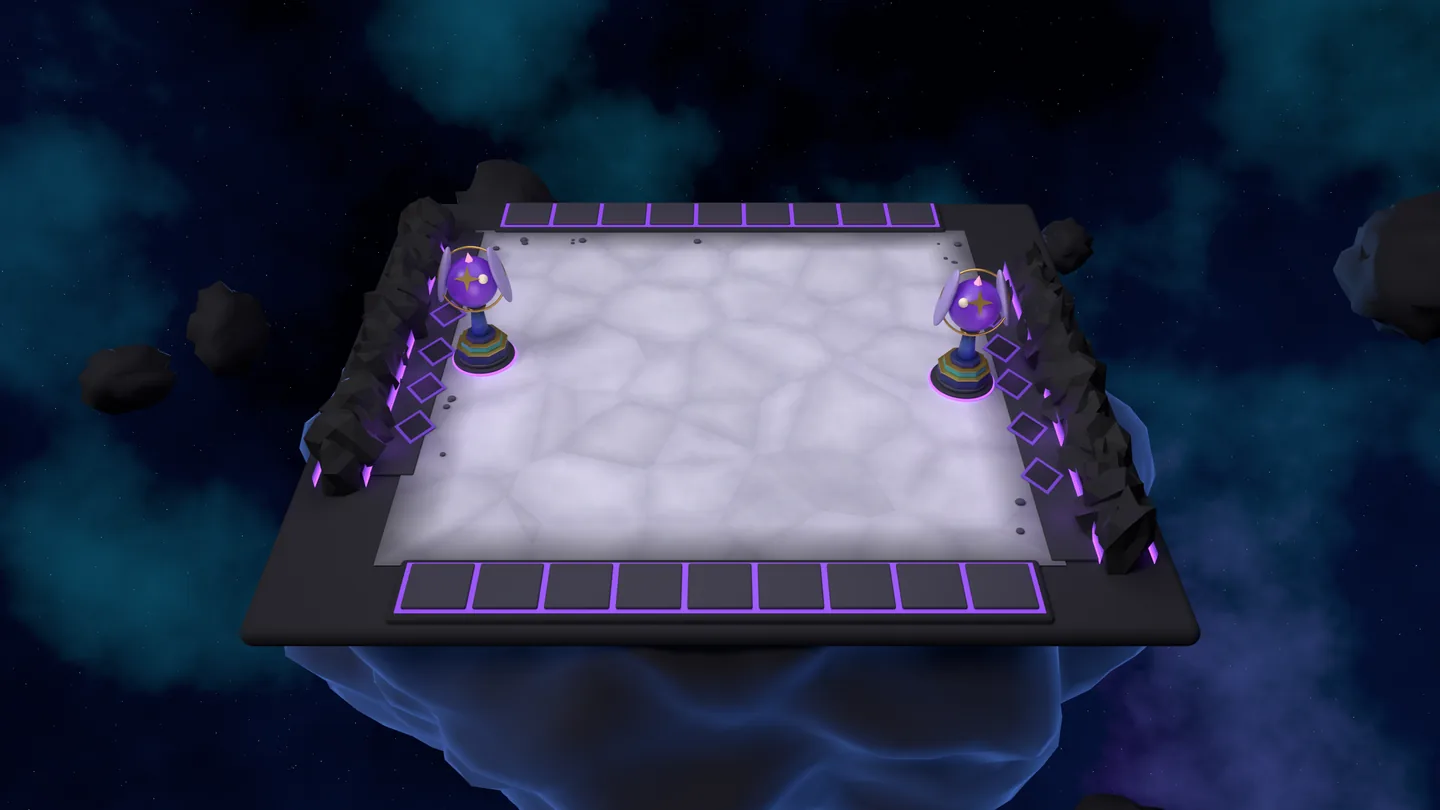
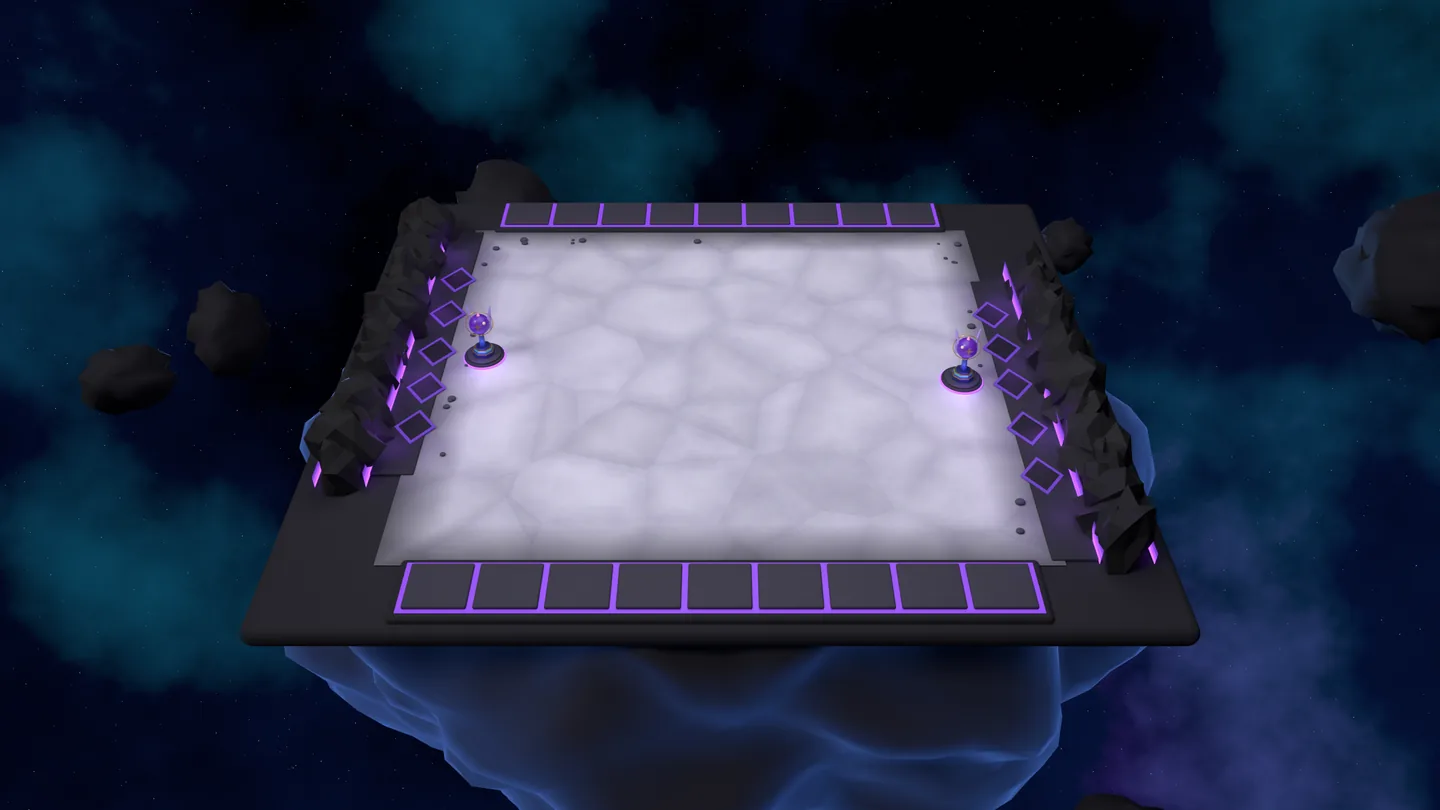
Coliseo: trofeos remodelados fieles al dibujo y del tamaño de una ficha (como el tótem de TFT); los aumentos van sobre su punta

Changed region(s): [[0.2812, 0.3086, 0.4062, 0.463], [0.625, 0.3086, 0.7188, 0.4938]]

diff --git a/public/board3d.js b/public/board3d.js
@@ -162,7 +162,7 @@ const flatSeen=new Set(); function flatFail(e){ const k=String(e&&e.message||e);
 // «coliseo» es la arena de baldosas con piedras negras y brillo morado renderizada en Blender con la cámara del juego (arena-coliseo.py de la skill de recursos)
 const FLAT_SETS={
  rio:{dir:'arena/',w:1428,h:1080,back:[[424,272],[969,273]],bench:[353,1034.8,585],holes:[[397,315],[387,347],[377,382],[367,415],[357,450]],totem:{row:3,dx:1.3,dy:.25},bg:'radial-gradient(circle at 50% 40%,#5a5d63,#2e3036)'},
- coliseo:{dir:'arena/coliseo/',w:2880,h:1620,back:[[968,472.4],[1912,472.4]],bench:[805.6,2074.4,1168.8],holes:[[917,562.1],[896.2,630.2],[874.7,705.8],[853.1,778.2],[831,856.2]],holes2:[[2083.3,953.9],[2054.2,859.3],[2025.2,770.9],[2002.7,699.1],[1980.9,632.6]],totem:{row:3,dx:1.3,dy:.25},totemY:.22,totemBaked:true,bg:'#000'},
+ coliseo:{dir:'arena/coliseo/',w:2880,h:1620,back:[[968,472.4],[1912,472.4]],bench:[805.6,2074.4,1168.8],holes:[[917,562.1],[896.2,630.2],[874.7,705.8],[853.1,778.2],[831,856.2]],holes2:[[2083.3,953.9],[2054.2,859.3],[2025.2,770.9],[2002.7,699.1],[1980.9,632.6]],totem:{row:3,dx:1.3,dy:.25},totemY:.14,totemBaked:true,totemTopY:1.473,bg:'#000'},
 };
 const FLAT_IMG=FLAT_SETS.coliseo; // totem: junto al borde izquierdo del tablero, a la altura de la fila `row`, `dx` radios de casilla hacia fuera y `dy` hacia abajo
 // Carrusel: plataforma Poké Ball sobre suelo rojo, renderizada en Blender con la misma perspectiva que la cámara del carrusel (carrusel-pokeball.py de la skill de recursos);
@@ -935,7 +935,7 @@ function stepProps(F,now){
    const m=c.userData.m, flash=want&&U.v<1?1+Math.sin(U.v*Math.PI)*.9:1; c.scale.setScalar(.2+.8*e);
    m.material.color.set('#9fe8ff'); m.material.emissive.set('#2aa8ff'); m.material.emissiveIntensity=1*flash; m.material.opacity=.95*e; m.rotation.y=.6+(1-e)*4; c.userData.h.visible=true; c.userData.h.scale.setScalar(1.3*(.6+.4*e)*flash); }); // el rombo gira solo mientras brota y luego se queda quieto
 }
-const totemTop=()=>totem&&totem.visible?projectV(totem.position.clone().setY(TOP+2.2)):null;
+const totemTop=()=>totem&&totem.visible?projectV(totem.position.clone().setY(FLAT_IMG.totemTopY!=null?FLAT_IMG.totemTopY+.15:TOP+2.2)):null; // encima de la punta del trofeo
 
 /* ---------- orbes de botín ---------- */
 // Esfera brillante con halo que flota y gira; la prismática cambia de color. Al abrirla estalla en chispas de su color.

diff --git a/.claude/skills/pokemon-data-asset-pipeline/scripts/arena-coliseo.py b/.claude/skills/pokemon-data-asset-pipeline/scripts/arena-coliseo.py
@@ -165,47 +165,67 @@ for k in range(22):
     for v in o.data.vertices: v.co *= 1 + rnd.uniform(-.18, .18)
     o.scale = (1, rnd.uniform(.7, 1.1), rnd.uniform(.6, .9)); o.rotation_euler = (rnd.uniform(0, 3), rnd.uniform(0, 3), rnd.uniform(0, 3)); o.data.materials.append(M_FL); bpy.ops.object.shade_smooth()
 
-# ---------- pedestales con el trofeo modelado encima (ya no es una imagen aparte): el mío a la izquierda y el del rival, reflejado, a la derecha ----------
-# Mismo diseño que img/trofeo.webp: base octogonal azul marino con ribete dorado, escalón turquesa, tallo azul, anillo dorado,
-# esfera morada con la estrella dorada, una luna, un cristal rosa arriba, un aro dorado inclinado y dos alas lavanda
-TX, TZT, TH = -6.063, -1.426, .22
+# ---------- pedestales con el trofeo modelado encima (dentro de la imagen): el mío a la izquierda y el del rival, reflejado, a la derecha ----------
+# Copia de img/trofeo.webp a escala TFT (más o menos la altura de una ficha): base octogonal azul marino con ribetes dorados y escalón turquesa,
+# tallo azul con collar dorado, gran esfera morada con la estrella dorada de 4 puntas, una luna crema, un cristal rosa arriba,
+# un aro dorado que la rodea en diagonal y dos alas lavanda translúcidas que salen por detrás hacia arriba
+TX, TZT, TH, TS = -6.063, -1.426, .14, .56   # TS: escala del trofeo (1 = 2,4 de alto)
 M_PED = mat('pedestal', '#2a2833', .7); M_PEDT = mat('pedestal_cara', '#3a3747', .6); M_PEDG = mat('pedestal_brillo', '#120f18', .5, '#9b4dff', 2.5)
-M_NAVY = mat('trofeo_base', '#2b2f6e', .55); M_TEAL = mat('trofeo_turquesa', '#3aa59e', .5); M_GOLD = mat('trofeo_oro', '#d9b25a', .3); M_GOLD.node_tree.nodes['Principled BSDF'].inputs['Metallic'].default_value = .8
-M_STEM = mat('trofeo_tallo', '#3c5aa6', .45); M_ORB = mat('trofeo_esfera', '#6b2fb2', .35, '#4a1a8c', .4); M_MOON = mat('trofeo_luna', '#efe6c8', .6)
-M_GEM = mat('trofeo_gema', '#f4a6c0', .25, '#ff9cc4', .6); M_WING = mat('trofeo_ala', '#b9a6e6', .4); M_WING.node_tree.nodes['Principled BSDF'].inputs['Alpha'].default_value = .82
-def cyl(r0, r1, y0, y1, m, cx, cz, n=8, rot=math.pi / 8, bev=.02):
-    bpy.ops.mesh.primitive_cone_add(vertices=n, radius1=r0, radius2=r1, depth=y1 - y0, location=W(cx, (y0 + y1) / 2, cz)); o = bpy.context.object; o.rotation_euler.z = rot; o.data.materials.append(m)
+def pmat(name, col, rough, metal=0.0, emit=None, estr=0.0, coat=0.0):
+    m = mat(name, col, rough, emit, estr); b = m.node_tree.nodes['Principled BSDF']; b.inputs['Metallic'].default_value = metal
+    if coat: b.inputs['Coat Weight'].default_value = coat
+    return m
+M_NAVY = pmat('trofeo_base', '#262a66', .45, coat=.3); M_NAVYT = pmat('trofeo_base_cara', '#343a86', .45, coat=.3); M_TEAL = pmat('trofeo_turquesa', '#3fb3a8', .4, coat=.3)
+M_GOLD = pmat('trofeo_oro', '#e2b85c', .28, .85); M_STEM = pmat('trofeo_tallo', '#3e63b4', .38, coat=.4)
+M_ORB = pmat('trofeo_esfera', '#6a2bb8', .42, emit='#2c0d58', estr=.25, coat=.25); M_MOON = pmat('trofeo_luna', '#efe4c2', .5)
+M_GEM = pmat('trofeo_gema', '#f3a2bd', .2, emit='#ff8fbf', estr=.5, coat=.6)
+M_WING = pmat('trofeo_ala', '#b9a3ea', .45, emit='#6c52b8', estr=.2); M_WING.node_tree.nodes['Principled BSDF'].inputs['Alpha'].default_value = .9
+def prism(r0, r1, y0, y1, m, n=8, bev=.012):
+    bpy.ops.mesh.primitive_cone_add(vertices=n, radius1=r0, radius2=r1, depth=y1 - y0, location=(0, 0, (y0 + y1) / 2)); o = bpy.context.object; o.rotation_euler.z = math.pi / n; o.data.materials.append(m)
     if bev: bv = o.modifiers.new('bisel', 'BEVEL'); bv.width = bev; bv.segments = 3
-    bpy.ops.object.shade_smooth() if n > 12 else None; return o
+    if n > 12: bpy.ops.object.shade_smooth()
+    return o
+def build_trofeo(face):
+    # se modela en el origen (Z arriba, -Y hacia la cámara) y luego se escala y se coloca: así las proporciones son las del dibujo
+    parts = []
+    add = lambda o: parts.append(o) or o
+    add(prism(.5, .5, 0, .2, M_NAVY)); add(prism(.505, .505, .2, .215, M_GOLD, bev=0))                 # base octogonal y ribete dorado
+    add(prism(.47, .45, .215, .27, M_NAVYT)); add(prism(.43, .41, .27, .36, M_TEAL)); add(prism(.415, .415, .36, .372, M_GOLD, bev=0))
+    add(prism(.36, .33, .372, .44, M_NAVY))
+    add(prism(.15, .1, .44, 1.08, M_STEM, n=40, bev=0))                                                 # tallo que se estrecha
+    bpy.ops.mesh.primitive_torus_add(major_radius=.12, minor_radius=.03, location=(0, 0, 1.08)); add(bpy.context.object).data.materials.append(M_GOLD); bpy.ops.object.shade_smooth()
+    add(prism(.1, .2, 1.08, 1.2, M_STEM, n=40, bev=0))                                                  # cáliz bajo la esfera
+    oz = 1.62; bpy.ops.mesh.primitive_uv_sphere_add(segments=64, ring_count=32, radius=.46, location=(0, 0, oz)); add(bpy.context.object).data.materials.append(M_ORB); bpy.ops.object.shade_smooth()
+    # estrella de 4 puntas en relieve, en la cara que mira a la cámara (la cámara está a 40° de elevación)
+    bpy.ops.mesh.primitive_circle_add(vertices=8, radius=.2, fill_type='NGON', location=(0, 0, 0)); st = add(bpy.context.object)
+    for i, v in enumerate(st.data.vertices): v.co *= 1.0 if i % 2 == 0 else .26
+    so = st.modifiers.new('grosor', 'SOLIDIFY'); so.thickness = .025; st.data.materials.append(M_GOLD)
+    d = Vector((0, -math.cos(math.radians(15)), math.sin(math.radians(15)))).normalized(); st.location = Vector((0, 0, oz)) + d * .46; st.rotation_euler = d.to_track_quat('Z', 'Y').to_euler()
+    bpy.ops.mesh.primitive_uv_sphere_add(segments=24, ring_count=12, radius=.075, location=(.27 * face, -.27, oz + .23)); add(bpy.context.object).data.materials.append(M_MOON); bpy.ops.object.shade_smooth()
+    bpy.ops.mesh.primitive_cone_add(vertices=6, radius1=.075, radius2=0, depth=.17, location=(0, 0, oz + .55)); add(bpy.context.object).data.materials.append(M_GEM)
+    bpy.ops.mesh.primitive_cone_add(vertices=6, radius1=.075, radius2=0, depth=.08, location=(0, 0, oz + .43)); o = add(bpy.context.object); o.rotation_euler.x = math.pi; o.data.materials.append(M_GEM)
+    bpy.ops.mesh.primitive_torus_add(major_radius=.6, minor_radius=.018, major_segments=96, location=(0, 0, oz + .02)); o = add(bpy.context.object); o.rotation_euler = (math.radians(80), math.radians(-48 * face), math.radians(18 * face)); o.data.materials.append(M_GOLD); bpy.ops.object.shade_smooth()
+    for sx in (-1, 1):  # alas: pétalos altos que salen por detrás de la esfera, se abren hacia fuera al subir y acaban en punta
+        bpy.ops.mesh.primitive_uv_sphere_add(segments=40, ring_count=24, radius=1, location=(0, 0, 0)); w = add(bpy.context.object)
+        w.scale = (.06, .19, .62); bpy.ops.object.transform_apply(scale=True)
+        for v in w.data.vertices:
+            t = (v.co.z + .62) / 1.24                      # 0 abajo → 1 arriba
+            v.co.y *= 1 - .75 * t ** 3                     # punta afilada arriba
+            v.co.x += sx * .3 * t ** 2                     # se abre hacia fuera
+        w.location = (sx * .36, .2, oz + .2); w.rotation_euler = (math.radians(-10), math.radians(-12 * sx), math.radians(-14 * sx)); w.data.materials.append(M_WING); bpy.ops.object.shade_smooth()
+    return parts
 def trofeo(cx, cz, face):
-    # pedestal de piedra con el aro morado
-    for (r, y0, y1, m) in ((.82, 0, .06, M_PEDG), (.78, 0, .12, M_PED), (.66, .12, TH, M_PEDT)):
-        cyl(r, r, y0, y1, m, cx, cz, n=64, rot=0, bev=.03)
-    y = TH; antes = set(bpy.data.objects)
-    cyl(.5, .5, y, y + .2, M_NAVY, cx, cz); cyl(.51, .51, y + .2, y + .225, M_GOLD, cx, cz, bev=0)          # base octogonal y ribete
-    cyl(.42, .4, y + .225, y + .34, M_TEAL, cx, cz); cyl(.41, .41, y + .34, y + .355, M_GOLD, cx, cz, bev=0) # escalón turquesa
-    cyl(.3, .29, y + .355, y + .45, M_NAVY, cx, cz)
-    cyl(.17, .11, y + .45, y + 1.05, M_STEM, cx, cz, n=32, rot=0, bev=0)                                   # tallo
-    bpy.ops.mesh.primitive_torus_add(major_radius=.15, minor_radius=.035, location=W(cx, y + 1.06, cz)); o = bpy.context.object; o.data.materials.append(M_GOLD); bpy.ops.object.shade_smooth()
-    cyl(.12, .2, y + 1.06, y + 1.2, M_STEM, cx, cz, n=32, rot=0, bev=0)
-    oy = y + 1.62; bpy.ops.mesh.primitive_uv_sphere_add(segments=48, ring_count=24, radius=.48, location=W(cx, oy, cz)); o = bpy.context.object; o.data.materials.append(M_ORB); bpy.ops.object.shade_smooth()
-    # estrella dorada de 4 puntas en la cara de la esfera que mira a la cámara
-    bpy.ops.mesh.primitive_circle_add(vertices=8, radius=.24, fill_type='NGON', location=W(cx, oy + .31, cz + .37)); st = bpy.context.object  # en la cara de la esfera que ve la cámara (elevación 40°)
-    for i, v in enumerate(st.data.vertices): v.co *= 1.0 if i % 2 == 0 else .3
-    st.rotation_euler = (math.radians(50), 0, 0); st.data.materials.append(M_GOLD); so = st.modifiers.new('grosor', 'SOLIDIFY'); so.thickness = .03
-    bpy.ops.mesh.primitive_uv_sphere_add(segments=24, ring_count=12, radius=.09, location=W(cx + .28 * face, oy + .26, cz + .3)); o = bpy.context.object; o.data.materials.append(M_MOON); bpy.ops.object.shade_smooth()
-    bpy.ops.mesh.primitive_cone_add(vertices=6, radius1=.08, radius2=0, depth=.18, location=W(cx, oy + .56, cz)); o = bpy.context.object; o.data.materials.append(M_GEM)
-    bpy.ops.mesh.primitive_cone_add(vertices=6, radius1=.08, radius2=0, depth=.1, location=W(cx, oy + .42, cz)); o = bpy.context.object; o.rotation_euler.x = math.pi; o.data.materials.append(M_GEM)
-    bpy.ops.mesh.primitive_torus_add(major_radius=.62, minor_radius=.022, major_segments=96, location=W(cx, oy + .05, cz)); o = bpy.context.object; o.rotation_euler = (math.radians(70), math.radians(18 * face), 0); o.data.materials.append(M_GOLD); bpy.ops.object.shade_smooth()
-    for sx in (-1, 1):  # alas: pétalos curvos a los lados de la esfera
-        bpy.ops.mesh.primitive_uv_sphere_add(segments=32, ring_count=16, radius=1, location=W(cx + sx * .52, oy + .12, cz - .05)); w = bpy.context.object
-        w.scale = (.1, .26, .62); w.rotation_euler = (0, math.radians(-14 * sx), 0); w.data.materials.append(M_WING); bpy.ops.object.shade_smooth()
-    # el trofeo, ×1,3 desde el centro de su base (visto desde arriba lo vertical se acorta)
-    piv = Vector(W(cx, TH, cz))
-    for o in set(bpy.data.objects) - antes: o.location = piv + (o.location - piv) * 1.3; o.scale = o.scale * 1.3
-    bpy.ops.object.light_add(type='POINT', location=W(cx, .5, cz + .4)); lt = bpy.context.object; lt.data.color = lin(hexc('#b07bff')); lt.data.energy = 25; lt.data.shadow_soft_size = .5
-    bpy.ops.object.light_add(type='POINT', location=W(cx + .3, oy + .6, cz + 1.2)); lt = bpy.context.object; lt.data.color = lin(hexc('#fff2dc')); lt.data.energy = 18; lt.data.shadow_soft_size = .4  # luz de relleno: se ve el trofeo
+    # pedestal de piedra (el montículo) con el aro morado, a la escala del trofeo
+    for (r, y0, y1, m) in ((.54, 0, .05, M_PEDG), (.51, 0, .09, M_PED), (.43, .09, TH, M_PEDT)):
+        bpy.ops.mesh.primitive_cylinder_add(vertices=64, radius=r, depth=y1 - y0, location=W(cx, (y0 + y1) / 2, cz)); o = bpy.context.object; o.data.materials.append(m)
+        bv = o.modifiers.new('bisel', 'BEVEL'); bv.width = .025; bv.segments = 4; bpy.ops.object.shade_smooth()
+    root = bpy.data.objects.new('trofeo', None); sc.collection.objects.link(root)
+    for o in build_trofeo(face): o.parent = root
+    root.scale = (TS, TS, TS); root.location = W(cx, TH, cz)
+    bpy.ops.object.light_add(type='POINT', location=W(cx, .4, cz + .4)); lt = bpy.context.object; lt.data.color = lin(hexc('#b07bff')); lt.data.energy = 14; lt.data.shadow_soft_size = .4
+    bpy.ops.object.light_add(type='POINT', location=W(cx + .5, 1.6, cz + 1.4)); lt = bpy.context.object; lt.data.color = lin(hexc('#fff3e0')); lt.data.energy = 12; lt.data.shadow_soft_size = .5  # luz de relleno: brillo en la esfera
 trofeo(TX, TZT, 1); trofeo(*MIR(TX, TZT), -1)
+TROFEO_TOP = TH + 2.38 * TS   # altura de la punta del cristal: los iconos de aumentos van encima (FLAT_SETS.coliseo.totemTopY)
 
 # ---------- luz: sin lámpara visible; luz suave de arriba y algo de ambiente frío ----------
 wd = bpy.data.worlds.new('espacio'); sc.world = wd; wd.use_nodes = True; wn = wd.node_tree; bgn = wn.nodes['Background']; WN = wn.nodes.new; WL = wn.links.new
@@ -242,6 +262,11 @@ sc.render.engine = 'CYCLES'; sc.cycles.samples = SAMPLES; sc.cycles.use_denoisin
 sc.view_settings.view_transform = 'Standard'; sc.render.image_settings.file_format = 'PNG'; sc.render.filepath = OUT
 bpy.context.view_layer.update()
 px = lambda x, y, z: (lambda v: [round(v.x * WR, 1), round((1 - v.y) * HR, 1)])(world_to_camera_view(sc, cam, Vector(W(x, y, z))))
-out = {'w': WR, 'h': HR, 'back': [px(FX0, 0, FZ0), px(FX1, 0, FZ0)], 'bench': [px(BENCH_X + BENCH_DX * i, TOP, BENCH_Z) for i in range(9)], 'holes': [px(x, 0, z) for x, z in HOLES], 'holes2': [px(x, 0, z) for x, z in HOLES2]}
+out = {'w': WR, 'h': HR, 'back': [px(FX0, 0, FZ0), px(FX1, 0, FZ0)], 'bench': [px(BENCH_X + BENCH_DX * i, TOP, BENCH_Z) for i in range(9)], 'holes': [px(x, 0, z) for x, z in HOLES], 'holes2': [px(x, 0, z) for x, z in HOLES2], 'totemTopY': round(TROFEO_TOP, 3)}
 json.dump(out, open(bpy.path.abspath(OUT).rsplit('.', 1)[0] + '.json', 'w'))
+# opción 'trofeo': solo un recorte alrededor de los trofeos (para revisarlos de cerca sin renderizar todo)
+if len(argv) > 4 and argv[4] == 'trofeo':
+    a, b = px(TX - 1.6, TROFEO_TOP + .4, TZT - .3), px(-TX + 1.6, 0, MIR(TX, TZT)[1] + .8)
+    sc.render.use_border = True; sc.render.use_crop_to_border = True
+    sc.render.border_min_x, sc.render.border_max_x = a[0] / WR, b[0] / WR; sc.render.border_min_y, sc.render.border_max_y = 1 - b[1] / HR, 1 - a[1] / HR
 bpy.ops.render.render(write_still=True); print('PUNTOS', json.dumps(out))

diff --git a/CLAUDE.md b/CLAUDE.md
@@ -175,7 +175,7 @@ El detalle, con los nombres de las funciones, está en la skill `autochess-syste
 - Sonidos: los propios se sintetizan con WebAudio en `Music` (`hurry`, `xp`, `drop` y `evolve` para las evoluciones de fichas y minileyendas); los grabados se cargan en caliente con `Music.sample`: gritos al comprar el primer ejemplar (Showdown `audio/cries/<nombre>.mp3`, con PokeAPI/cries de reserva) y la Poké Ball de PokeMiners/pogo_assets (`SFX`).
 - Rendimiento del 3D: los Pokémon no proyectan sombra real (llevan la sombra suave `blob`); la sombra del escenario es estática (`shadowMap.autoUpdate=false`, se rehace con `needsUpdate` al cambiar de arena, encuadre o calidad); la resolución máxima es 1,5 píxeles por píxel CSS; three.js se carga minificado; `B3.dropQueue()` (en `newGame`) descarta los modelos del menú que aún esperaban. `bakeStatic` junta lo estático de cada arena en una sola malla (lo animado lleva `userData.dyn`); `B3.info` da llamadas de dibujo, triángulos y ms por parte. Las fichas quietas (`still`) no giran y un salto grande cuenta como teletransporte. En combate, `unitXY` interpola con `drawSub` (solo dibujo; no toca la simulación).
 - Sinergias en planificación: `synFx` (partículas por tipo y anillo por clase; el Guardián ya no lleva un escudo fijo: al colocar una ficha que comparte la sinergia sale un escudo de cristal translúcido —se ve la ficha a través, sin Poké Ball— que flota y se desvanece en 1,7 s, `guardShield`; el **Coloso** suelta igual un campo de fuerza esférico alrededor de la ficha, del tamaño de su modelo, `colossusBubble`; las dos son imágenes propias y ligeras, `public/img/fx/escudo.webp` (17 KB) y `burbuja.webp` (13 KB), dibujadas con `efectos-sinergia.js` de la skill de recursos, un sprite cada una; `B3.fxSyn` las cuenta para las pruebas) y `stepLinks` (bandas entre los Coloso) en `board3d.js`; los datos salen de `activeTraits` y `sceneLinks` en `game.js`.
-- **Escenario «coliseo»** (el que se usa ahora; `FLAT_SETS.coliseo` en `board3d.js`, archivos en `public/arena/coliseo/`): una sola imagen (2880×1620, 83 KB; 35 KB la versión 1×) renderizada en Blender con la cámara del tablero (`arena-coliseo.py` de la skill de recursos: elevación 40°, distancia 28,5, fov 30° y encuadre ×1,3) en las coordenadas del mundo del juego: suelo limpio de piedra clara con losas irregulares de bordes suaves (sin líneas ni dibujos, como el escenario de capas) y sombra suave en los bordes, piedras negras con brillo morado, a la izquierda una repisa con los 5 rombos de los cristales de intereses, un pedestal de piedra donde se apoya el trofeo (`totemY` = 0,22: el sprite del trofeo sube a su cara), delante la banca de 9 losas de piedra oscura (sin piedras levantadas) y un borde oscuro redondeado; todo flota en el espacio (nebulosa azul con vetas moradas y turquesa y estrellas), con una roca que cuelga bajo la arena (contorno azulado por Fresnel) y rocas flotando a varias distancias. Sin vídeos ni fuegos (`capas.json` vacío). **Campo espejo**: la mitad del rival es el reflejo de la tuya respecto al centro del campo (`MIR` en el script): detrás, su banca de 9 losas; a la derecha, su repisa con 5 rombos; y cada uno tiene su pedestal con el **trofeo modelado dentro de la imagen** (`totemBaked`: el sprite `img/trofeo.webp` ya no se pinta, pero su posición sigue marcando dónde van los iconos de aumentos). Las piedras, toscas (facetas planas), solo quedan por fuera de las dos repisas. En un combate PvP se ven la banca del rival en sus losas (`combatOpp`, actores `ob<id>:…` en `sceneActors`, con su casilla 0 a tu derecha) y sus cristales de intereses en sus rombos (`FLAT_IMG.holes2`, cristales 5-9 en `stepProps`, `interest.n2`), con la misma regla de siempre: cada jugador manda sus cristales (0-5, nunca el oro exacto) en `pub.pl[i][18]` (`interestOf`). El script da los puntos de `FLAT_IMG` (`back`, `bench`, `holes`, `holes2`); el encaje sale casi una escala pura porque la perspectiva es la misma. El escenario de capas de antes sigue en `FLAT_SETS.rio`. El contenedor del escenario es `#flatBg`.
+- **Escenario «coliseo»** (el que se usa ahora; `FLAT_SETS.coliseo` en `board3d.js`, archivos en `public/arena/coliseo/`): una sola imagen (2880×1620, 79 KB; 34 KB la versión 1×) renderizada en Blender con la cámara del tablero (`arena-coliseo.py` de la skill de recursos: elevación 40°, distancia 28,5, fov 30° y encuadre ×1,3) en las coordenadas del mundo del juego: suelo limpio de piedra clara con losas irregulares de bordes suaves (sin líneas ni dibujos, como el escenario de capas) y sombra suave en los bordes, piedras negras con brillo morado, a la izquierda una repisa con los 5 rombos de los cristales de intereses, un pedestal de piedra donde se apoya el trofeo (`totemY` = 0,22: el sprite del trofeo sube a su cara), delante la banca de 9 losas de piedra oscura (sin piedras levantadas) y un borde oscuro redondeado; todo flota en el espacio (nebulosa azul con vetas moradas y turquesa y estrellas), con una roca que cuelga bajo la arena (contorno azulado por Fresnel) y rocas flotando a varias distancias. Sin vídeos ni fuegos (`capas.json` vacío). **Campo espejo**: la mitad del rival es el reflejo de la tuya respecto al centro del campo (`MIR` en el script): detrás, su banca de 9 losas; a la derecha, su repisa con 5 rombos; y cada uno tiene su pedestal con el **trofeo modelado dentro de la imagen** (copia en 3D de `img/trofeo.webp`, del tamaño de una ficha como el tótem de TFT: escala `TS`; los iconos de aumentos van sobre su punta, `totemTopY`) (`totemBaked`: el sprite `img/trofeo.webp` ya no se pinta, pero su posición sigue marcando dónde van los iconos de aumentos). Las piedras, toscas (facetas planas), solo quedan por fuera de las dos repisas. En un combate PvP se ven la banca del rival en sus losas (`combatOpp`, actores `ob<id>:…` en `sceneActors`, con su casilla 0 a tu derecha) y sus cristales de intereses en sus rombos (`FLAT_IMG.holes2`, cristales 5-9 en `stepProps`, `interest.n2`), con la misma regla de siempre: cada jugador manda sus cristales (0-5, nunca el oro exacto) en `pub.pl[i][18]` (`interestOf`). El script da los puntos de `FLAT_IMG` (`back`, `bench`, `holes`, `holes2`); el encaje sale casi una escala pura porque la perspectiva es la misma. El escenario de capas de antes sigue en `FLAT_SETS.rio`. El contenedor del escenario es `#flatBg`.
 - **Escenario del tablero por capas** (el único del tablero; `FLAT` en `board3d.js`; archivos en `public/arena/`, del paquete de capas `arena_tft_capas_1080` que aportó el autor del proyecto, servidos siempre por nuestro servidor): detrás del lienzo transparente va un fondo WebP a 2× sin el gris (recortado del máster 4K), tres vídeos de agua en bucle recortados con `mask-image` y cuatro fuegos por tira de sprites, con sus posiciones leídas de `capas.json`. Todo el contenedor (1428×1080) se deforma con una homografía (`matrix3d`) ajustada por mínimos cuadrados a las dos esquinas del fondo del campo y al centro de las 9 losas del banquillo (`FLAT_IMG`, `stepFlat`); `flatWorld` convierte un punto de la imagen en un punto del suelo 3D (cristales en los huecos; la torre de aumentos va aparte, junto al borde izquierdo a la altura de la fila 3, `FLAT_IMG.totem`). Los vídeos y fuegos se pausan al ocultar la pestaña o el escenario (`flatPlay`).
 - Espectador: minimapa 3×3 abajo a la derecha (`renderIslands`, transición `warp`; un clic lleva al tablero o combate de ese jugador; necesita `pointer-events:auto` porque la capa del campo completo los anula, y se oculta al acabar la partida o volver al menú); al mirar a otro, el inventario y el tótem muestran sus objetos y aumentos (`viewOwner`; viajan en `pub.bd`).
 - **Cartas de aumento** (`showAugment`, `augCardHTML`, CSS `.augCard3`): fondo negro con marco dorado propio en SVG (`public/img/aug-marco.svg`: doble marco, esquinas recortadas con Poké Balls y emblema arriba), igual para las tres rarezas; la rareza la da el icono, que es el del aumento convertido en silueta del color de su rareza (plata, oro o degradado prismático) conservando sus detalles por la luminosidad (`augSil`, en un lienzo, una vez por aumento; los de Pokémon usan su ilustración oficial de PokeAPI para que la silueta salga suave, con el sprite de respaldo). Título en serif y descripción centrada: `fitAugCard` reduce la letra hasta que caben (comprobado con los 224: título ≥ 19 px, descripción ≥ 12 px). Sin animación de apertura de Poké Ball. Sobre el trofeo (`drawTotemIcons`) cada aumento va en un recuadro negro con marco negro, como los objetos sobre un Pokémon, con la misma silueta de su carta (`augSilImg`).
